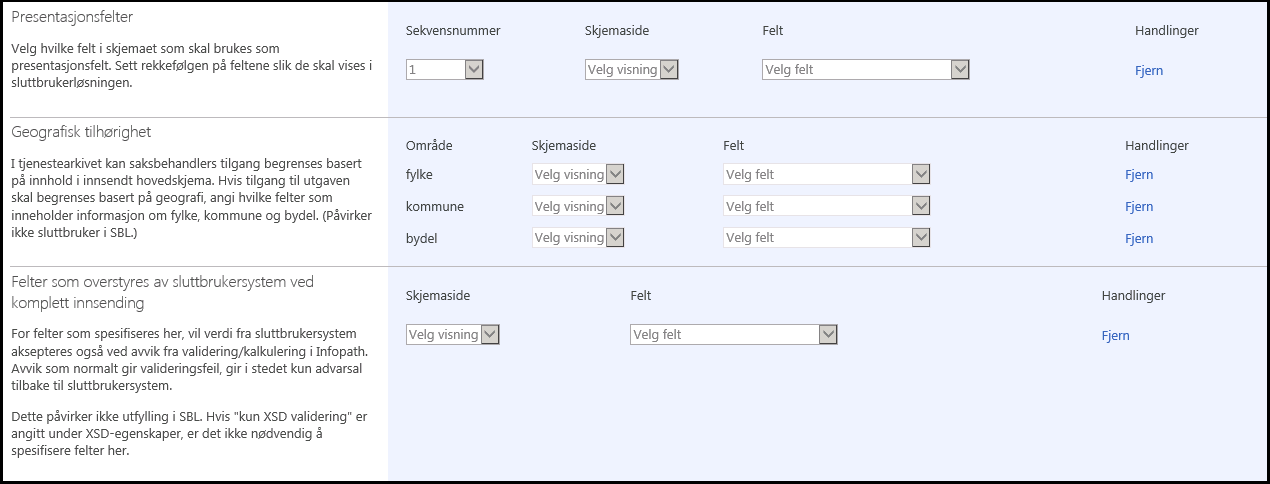
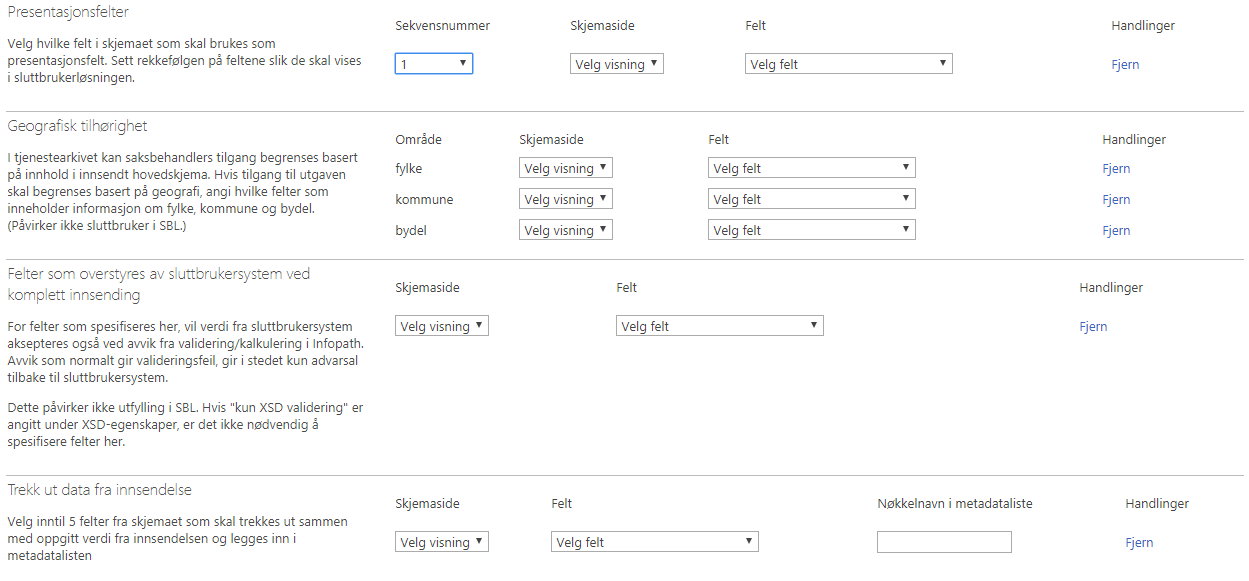
Oppdatert med endringer knyttet til us 12811

diff --git a/content/guides/tul/tjenestetyper/felles-funksjonalitet.md b/content/guides/tul/tjenestetyper/felles-funksjonalitet.md
@@ -980,3 +980,14 @@ utfylling i SBL, uavhengig om det er definert her eller under «XSD-egenskaper»
 Hvis skjema har et attributt med navn SentFromEUS i namespacet my (`@my:SentFromEUS`), så vil det bli lagt inn verdien `true` i dette feltet
 hvis skjema er sendt fra sluttbrukersystem. Denne attributten kan benyttes til å ha ulik validering/kalkulering for innsending fra SBS og
 fra portal selv om det kanskje ikke er ønskelig vedlikeholdsmessig.
+
+#### Trekk ut data fra innsendelse
+Tjenesteeier har mulighet til å definer metadatafelter som skal være mulig å trekke ut for å bruke til å styre videre behandling av skjema etter de er sendt fra Altinn. 
+Metadatafeltene legges i en liste utenfor skjema-XMLen og kan så brukes direkte uten at man trenger å pakke ut og tolke hele skjema-XMLen for å finne den samme informasjonen. 
+
+Tjenesteeier kan spesifisere hvilke data i skjema som skal trekkes ut ved å velge visning, felt og skrive inn et nøkkelnavn som kan brukes til uthentelse senere.
+Når tjenesteeier har skrevet inn et nøkkelnavn og klikker seg ut fra feltet vil en ny rad dukke opp hvis skjemaside og felt er valgt. 
+Hvor mange rader som er maksimalt mulig å oppgi er spesifisert i beskrivelsen av feltet rett under seksjons overskriften "Trekk ut data fra innsendelse"
+
+Definerte metadatafelter fjernes ved å klikke på *Fjern.*
+

diff --git a/content/guides/tul/tjenestetyper/innsending/_index.md b/content/guides/tul/tjenestetyper/innsending/_index.md
@@ -447,9 +447,10 @@ definere det på nytt med den nye siderekkefølgen, alternativt gå til Sideegen
 
 ### Innholdsreferanser
 
-[Presentasjonsfelt](../felles-funksjonalitet/#presentasjonsfelt) hjelper sluttbruker å finne skjemaet i SBL,
-og [referanser til geografisk informasjon](../felles-funksjonalitet/#geografisk-tilhørighet) i skjema gjør det mulig å styre
-tilgang til skjema i tjenesteeiers arkiv basert på avgivers tilhørighet.
+[Presentasjonsfelt](../felles-funksjonalitet/#presentasjonsfelt) hjelper sluttbruker å finne skjemaet i SBL, 
+[referanser til geografisk informasjon](../felles-funksjonalitet/#geografisk-tilhørighet) i skjema gjør det mulig å styre
+tilgang til skjema i tjenesteeiers arkiv basert på avgivers tilhørighet, 
+og [metadatafelter](../felles-funksjonalitet/#trekk-ut-data-fra-innsendelse) brukes til å definere felter som kan trekkes ut etter skjema er sendt fra Altinn.
 
 ### Preutfylling
 
